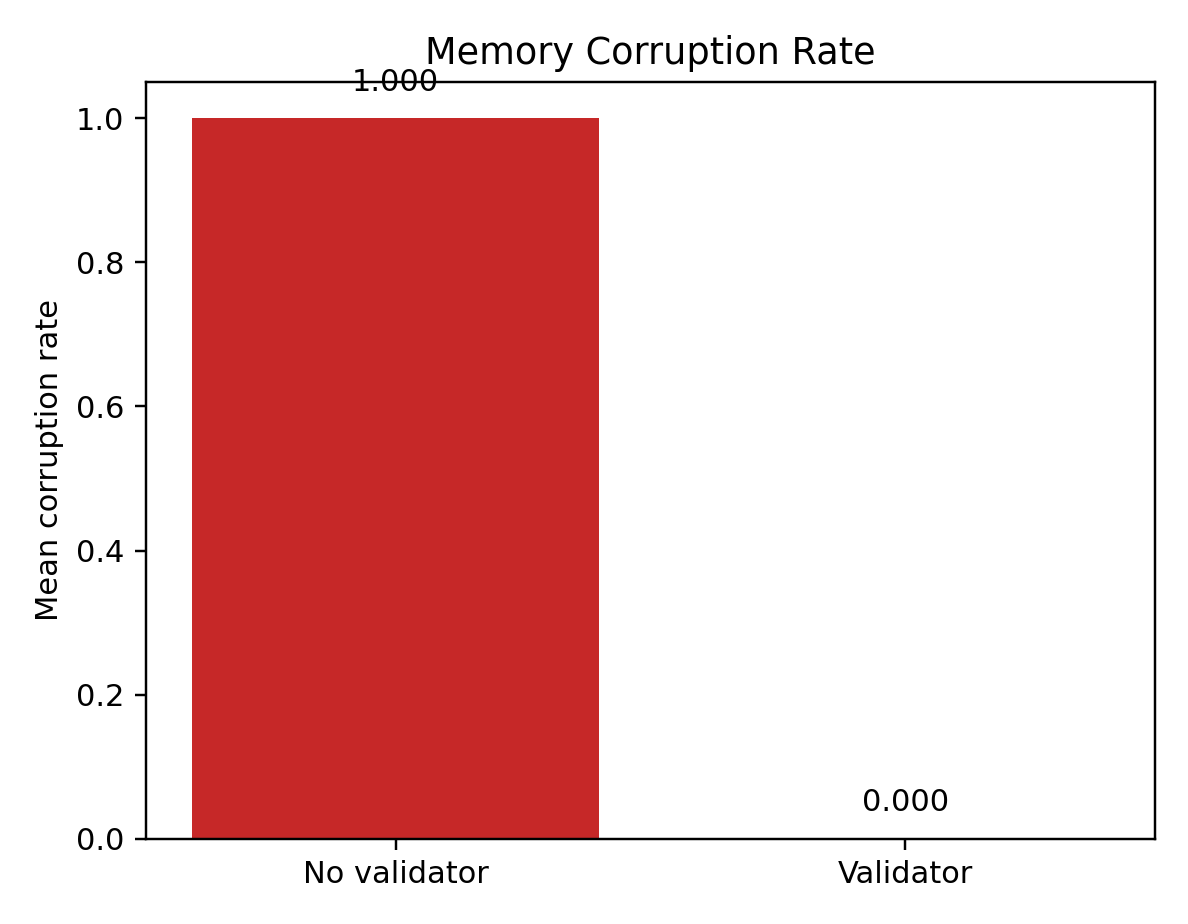
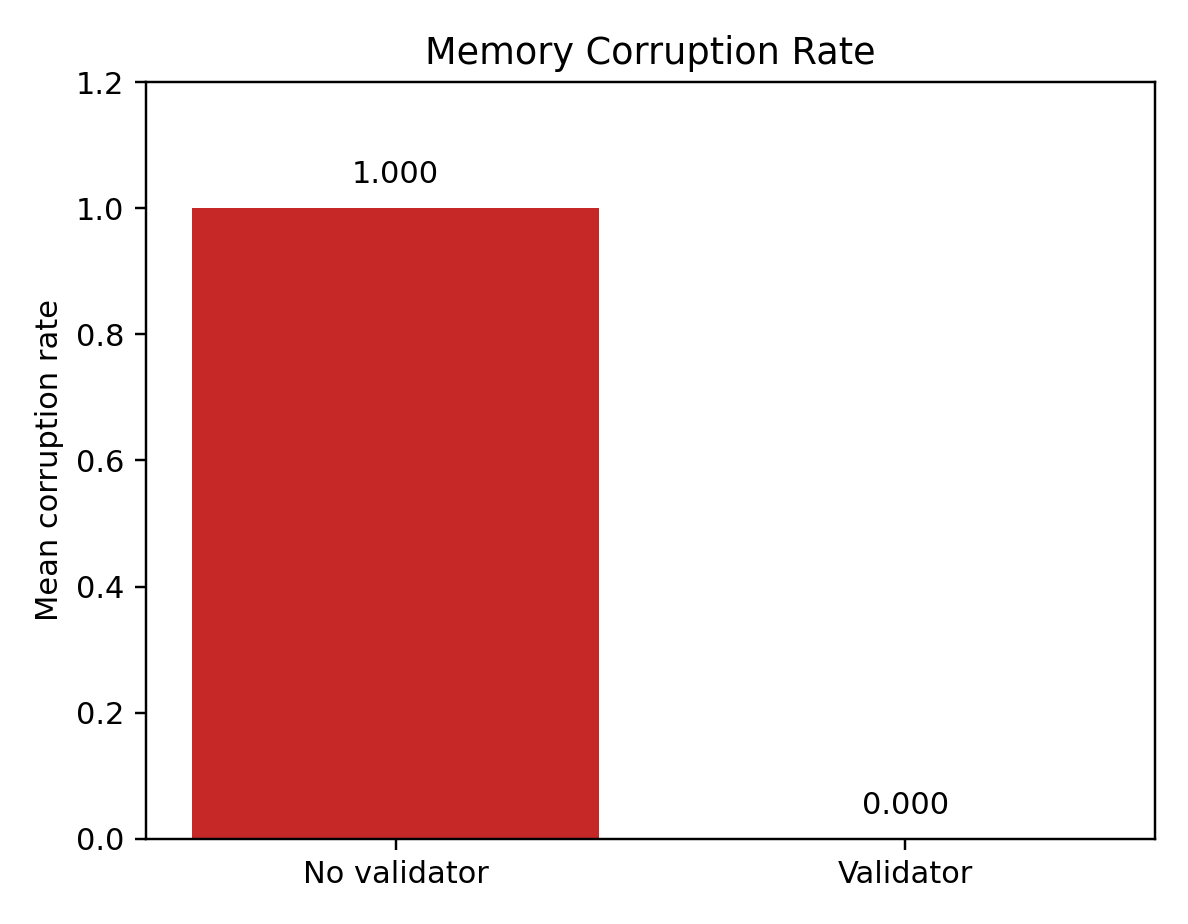
pub figure fixed

diff --git a/experiments/make_figures.py b/experiments/make_figures.py
@@ -149,7 +149,7 @@ def make_corruption_bar(
 
     fig, ax = plt.subplots(figsize=(5.4, 4.2))
     ax.bar(["No validator", "Validator"], means, color=["#C62828", "#2E7D32"])
-    ax.set_ylim(0, 1.05)
+    ax.set_ylim(0, 1.20)
     ax.set_ylabel("Mean corruption rate")
     ax.set_title("Memory Corruption Rate")
     for idx, value in enumerate(means):
@@ -180,7 +180,7 @@ def make_policy_bypass_bar(
     ]
     fig, ax = plt.subplots(figsize=(5.4, 4.2))
     ax.bar(["No gate", "Policy gate"], values, color=["#C62828", "#2E7D32"])
-    ax.set_ylim(0, 1.05)
+    ax.set_ylim(0, 1.20)
     ax.set_ylabel("Bypass success rate")
     ax.set_title("Tool Policy Bypass Rate")
     for idx, value in enumerate(values):
@@ -213,6 +213,7 @@ def make_overhead_bar(
 
     fig, ax = plt.subplots(figsize=(5.8, 4.2))
     ax.bar(labels, values, color=["#4C78A8", "#72B7B2"])
+    ax.set_ylim(0, max(values) * 1.25)
     ax.set_ylabel("Mean overhead (ms)")
     ax.set_title("Intervention Runtime Overhead")
     for idx, value in enumerate(values):
